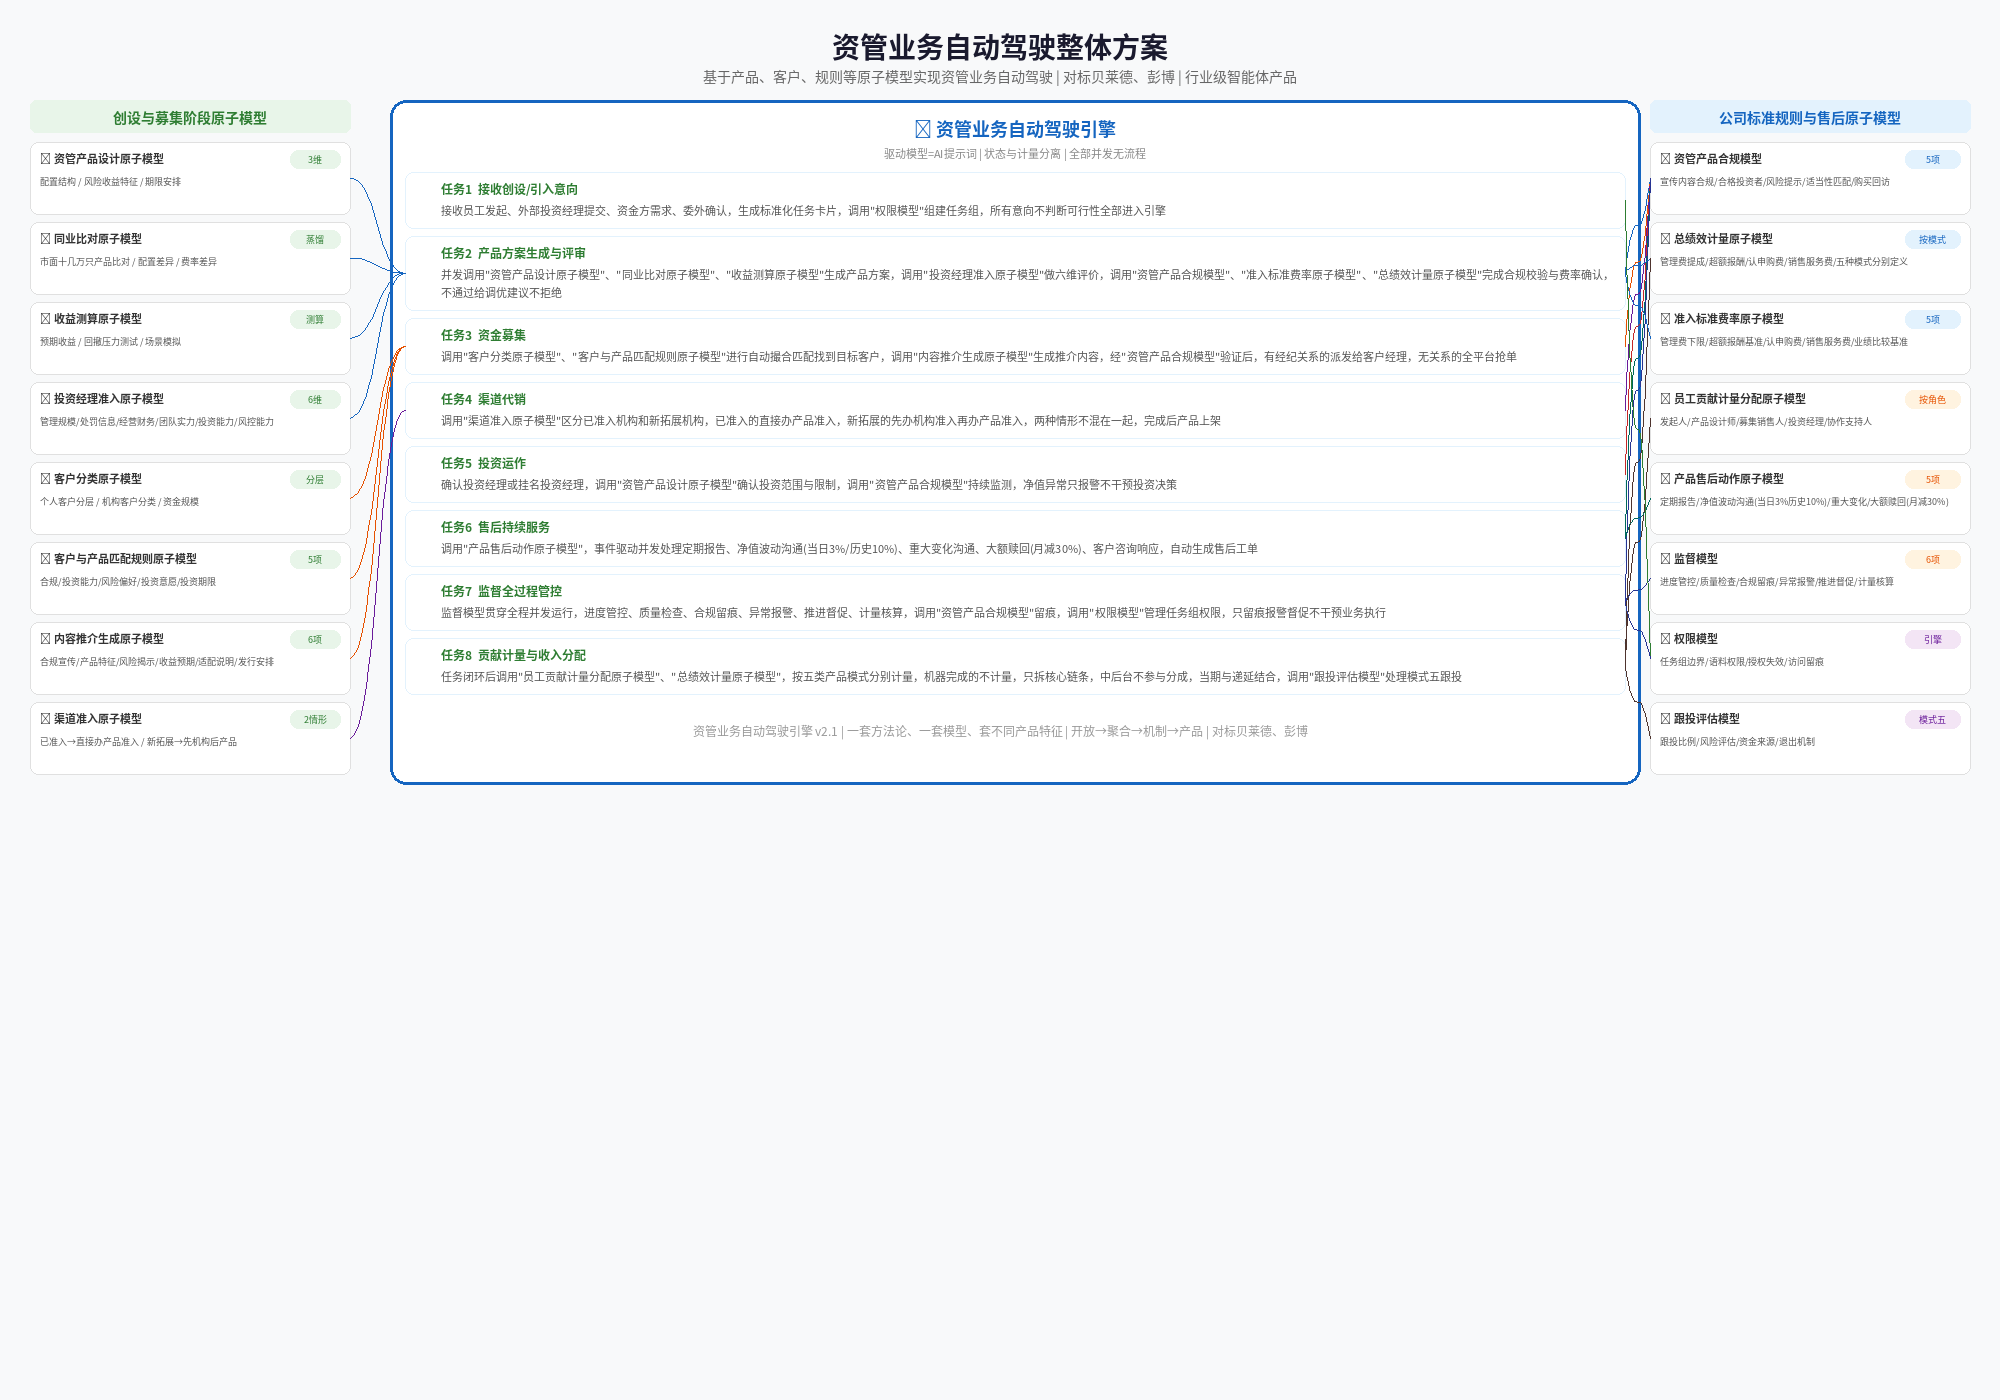
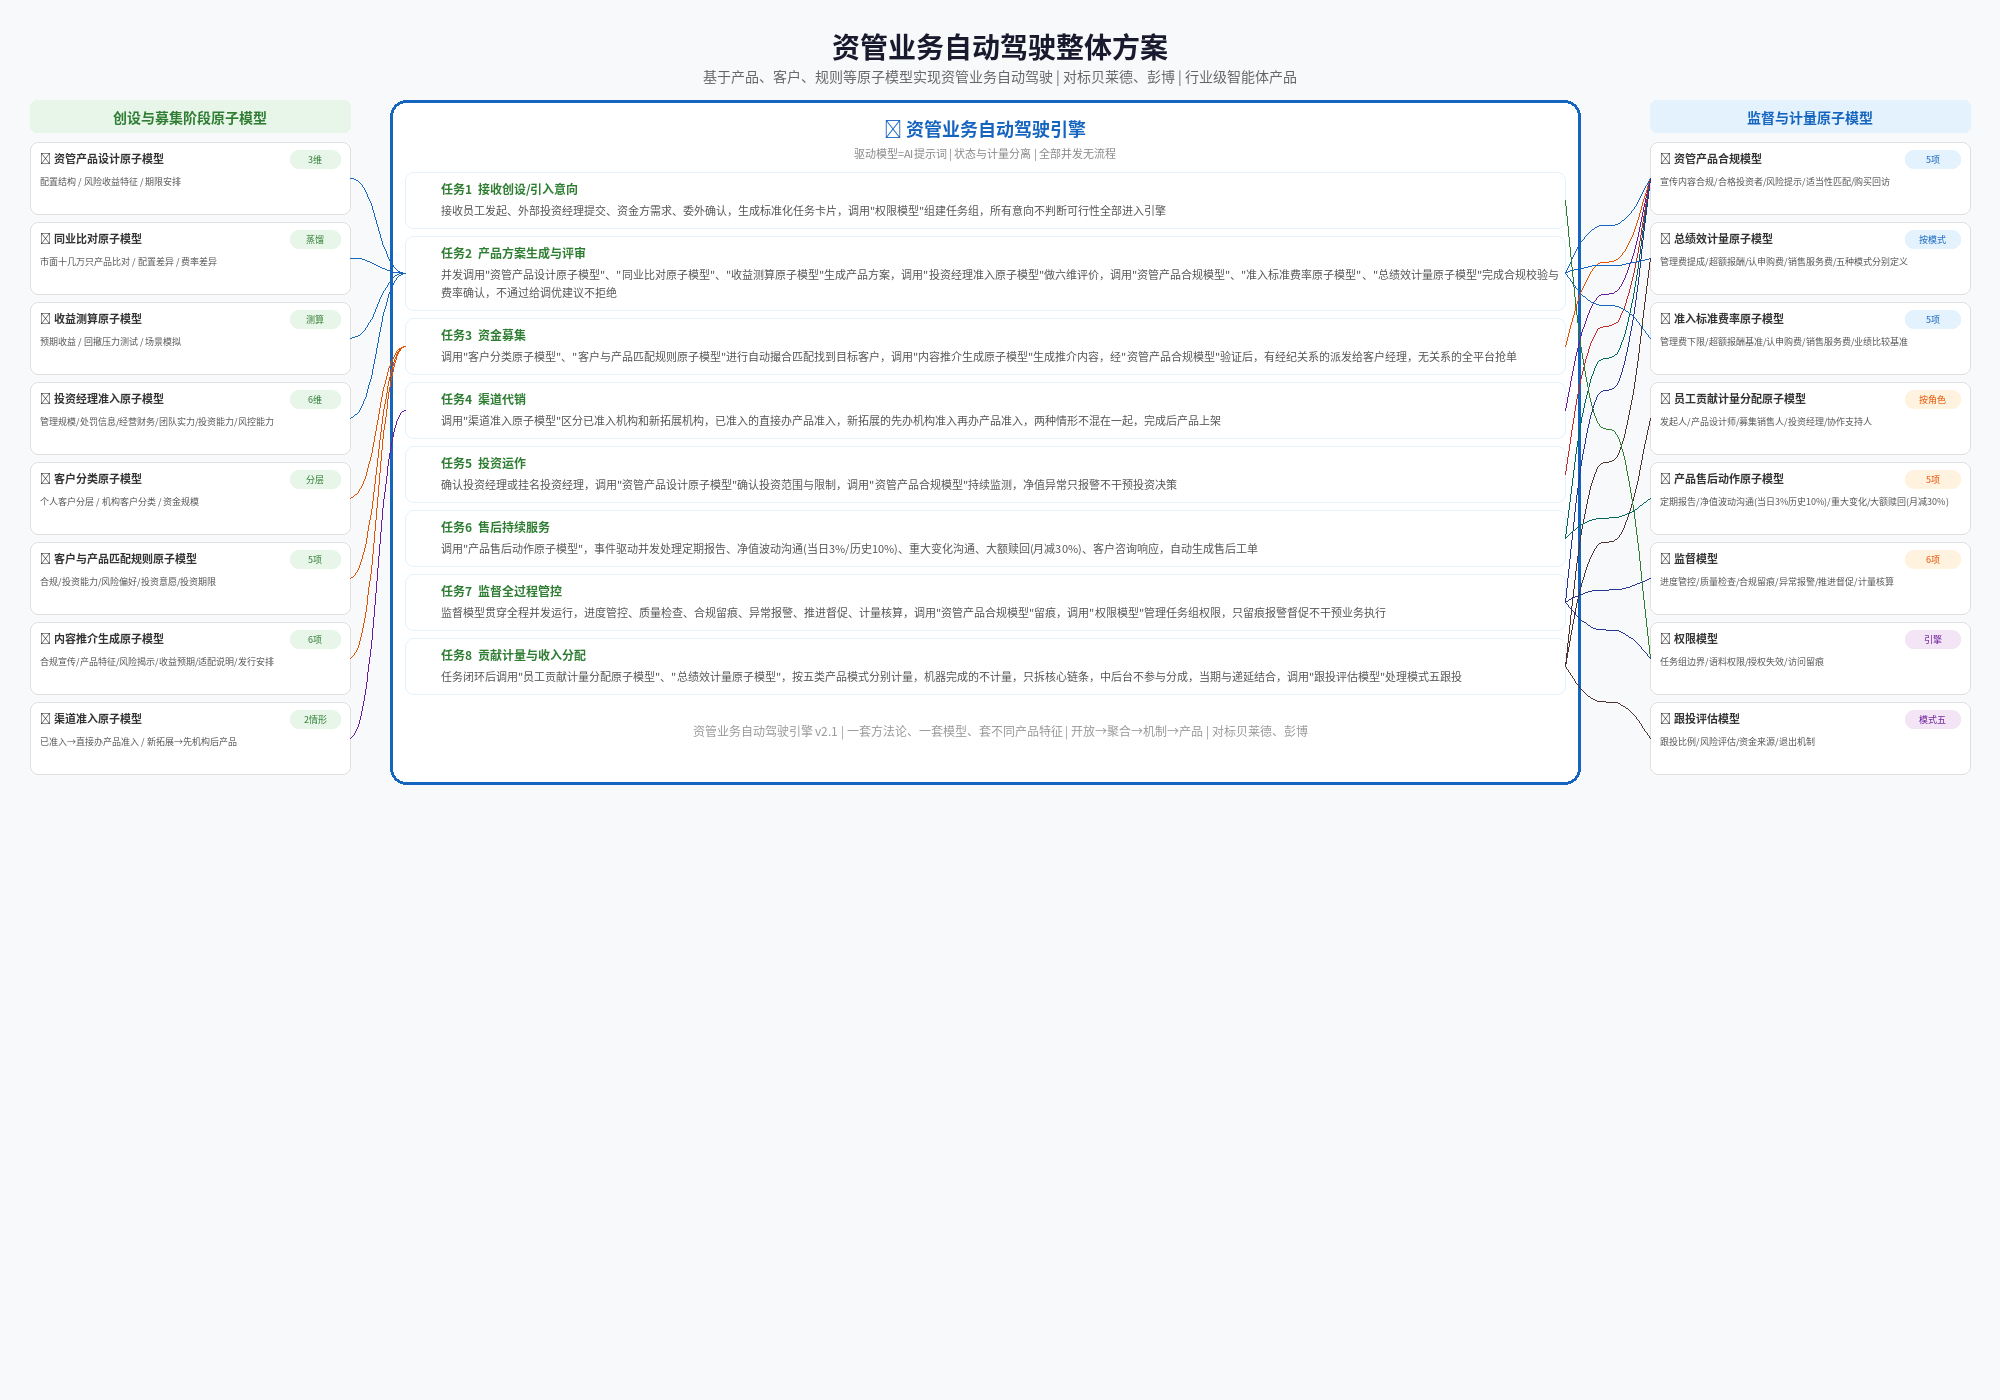
更新：资管方案架构图 - 右侧标题改为监督与计量原子模型，扩大与引擎间距

diff --git a/diagrams/generate_asset_mgmt_diagram.py b/diagrams/generate_asset_mgmt_diagram.py
@@ -81,7 +81,7 @@ LEFT_W = 320
 RIGHT_X = W - 30 - 320
 RIGHT_W = 320
 ENGINE_X = LEFT_X + LEFT_W + 40
-ENGINE_W = W - ENGINE_X - RIGHT_W - 40
+ENGINE_W = W - ENGINE_X - RIGHT_W - 100
 ENGINE_Y = 100
 
 # ==================== 左侧原子模型 ====================
@@ -152,7 +152,7 @@ right_models = [
 
 rh_rect = (RIGHT_X, ENGINE_Y, RIGHT_X + RIGHT_W, ENGINE_Y + 32)
 draw_rounded_rect(draw, rh_rect, 6, COLORS['right_header_bg'])
-draw_text_centered(draw, RIGHT_X + RIGHT_W/2, ENGINE_Y + 6, '公司标准规则与售后原子模型', lh_font, COLORS['right_header_text'])
+draw_text_centered(draw, RIGHT_X + RIGHT_W/2, ENGINE_Y + 6, '监督与计量原子模型', lh_font, COLORS['right_header_text'])
 
 mc_y = ENGINE_Y + 42
 right_card_positions = []
